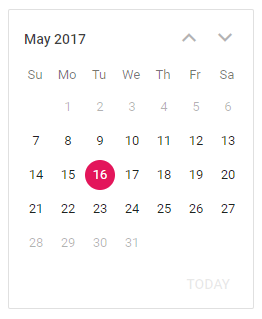
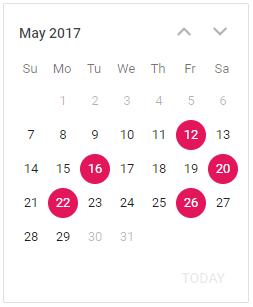
Add files via upload

diff --git a/src/app/app.component.ts b/src/app/app.component.ts
@@ -8,6 +8,7 @@ import { addClass } from '@syncfusion/ej2-base';
 })
 export class AppComponent {
   public minDate: Date = new Date ("05/07/2017");
-  public maxDate: Date = new Date ("05/27/2017");
-  public value: Date = new Date ("05/16/2017");
+  public maxDate: Date = new Date ("05/29/2017");
+  public value: Date [] = [new Date ("05/16/2017"), new Date ("05/12/2017"), new Date ("05/22/2017"), new Date ("05/26/2017"), new Date ("05/20/2017")]  
+  public multiselect: Boolean = true;
 }

diff --git a/src/app/app.component.html b/src/app/app.component.html
@@ -4,7 +4,7 @@
     </h1>
 </div>
 <div id="control_wrapper">
-    <ejs-calendar id='calendar' [value]='value' [min]='minDate' [max]='maxDate'></ejs-calendar>
+    <ejs-calendar id="calendar" [values]='value' [isMultiSelection]='multiselect' [min]='minDate' [max]='maxDate'></ejs-calendar>
 </div>
 
 <router-outlet></router-outlet>
